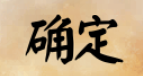
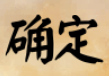
fix(DraftDuel): 标记识别改用配置范围并按卡位过滤

diff --git a/tasks/DraftDuel/assets.py b/tasks/DraftDuel/assets.py
@@ -125,7 +125,7 @@ class DraftDuelAssets:
 	# 队友推荐式神 
 	I_RECOMMEND_ROLE = RuleImage(roi_front=(590,492,116,39), roi_back=(131,483,1048,54), threshold=0.8, method="Template matching", file="./tasks/DraftDuel/draft_duel/draft_duel_recommend_role.png")
 	# 当前上卡式神标记 
-	I_MARK = RuleImage(roi_front=(300,510,34,30), roi_back=(260,483,592,77), threshold=0.6, method="Template matching", file="./tasks/DraftDuel/draft_duel/draft_duel_mark.png")
+	I_MARK = RuleImage(roi_front=(300,510,34,30), roi_back=(179,464,729,143), threshold=0.6, method="Template matching", file="./tasks/DraftDuel/draft_duel/draft_duel_mark.png")
 
 
 	# Image Rule Assets
@@ -168,7 +168,7 @@ class DraftDuelAssets:
 	# 判断战斗页面 
 	I_BATTLE_PAGE = RuleImage(roi_front=(35,366,45,46), roi_back=(35,366,45,46), threshold=0.8, method="Template matching", file="./tasks/DraftDuel/draft_duel/draft_duel_battle_page.png")
 	# 确认按钮 
-	I_CONFIRM = RuleImage(roi_front=(1091,546,143,76), roi_back=(1091,546,143,76), threshold=0.8, method="Template matching", file="./tasks/DraftDuel/draft_duel/draft_duel_confirm.png")
+	I_CONFIRM = RuleImage(roi_front=(1111,546,109,76), roi_back=(1111,546,109,76), threshold=0.8, method="Template matching", file="./tasks/DraftDuel/draft_duel/draft_duel_confirm.png")
 	# 已锁定 
 	I_LOCKED = RuleImage(roi_front=(1091,546,152,78), roi_back=(1091,546,152,78), threshold=0.8, method="Template matching", file="./tasks/DraftDuel/draft_duel/draft_duel_locked.png")
 	# 等待匹配中 

diff --git a/tasks/DraftDuel/script_task.py b/tasks/DraftDuel/script_task.py
@@ -464,17 +464,16 @@ class ScriptTask(GameUi, GeneralInvite, DraftDuelAssets):
         return result
 
     def _card_marked(self, slot: int) -> bool:
-        """只看目标卡位有没有上阵标记，避免被前面已上阵的卡误导。"""
-        box = CARD_BOXES[slot]
-        old_roi = self.I_MARK.roi_back
-        try:
-            matches = self.I_MARK.match_all(
-                self.device.image, threshold=self.I_MARK.threshold,
-                roi=list(box), frame_id=self.device.image_frame_id,
-            )
-        finally:
-            self.I_MARK.roi_back = old_roi
-        return bool(matches)
+        """按 dd.json 的 roiBack 搜标记，再按目标卡位的 x 过滤。"""
+        matches = self.I_MARK.match_all(
+            self.device.image, threshold=self.I_MARK.threshold,
+            frame_id=self.device.image_frame_id,
+        )
+        if not matches:
+            return False
+        x, _y, w, _h = CARD_BOXES[slot]
+        center_x = x + w / 2
+        return any(abs(match[1] - center_x) <= w / 2 + 15 for match in matches)
 
     def _screen_text(self) -> str:
         try:
